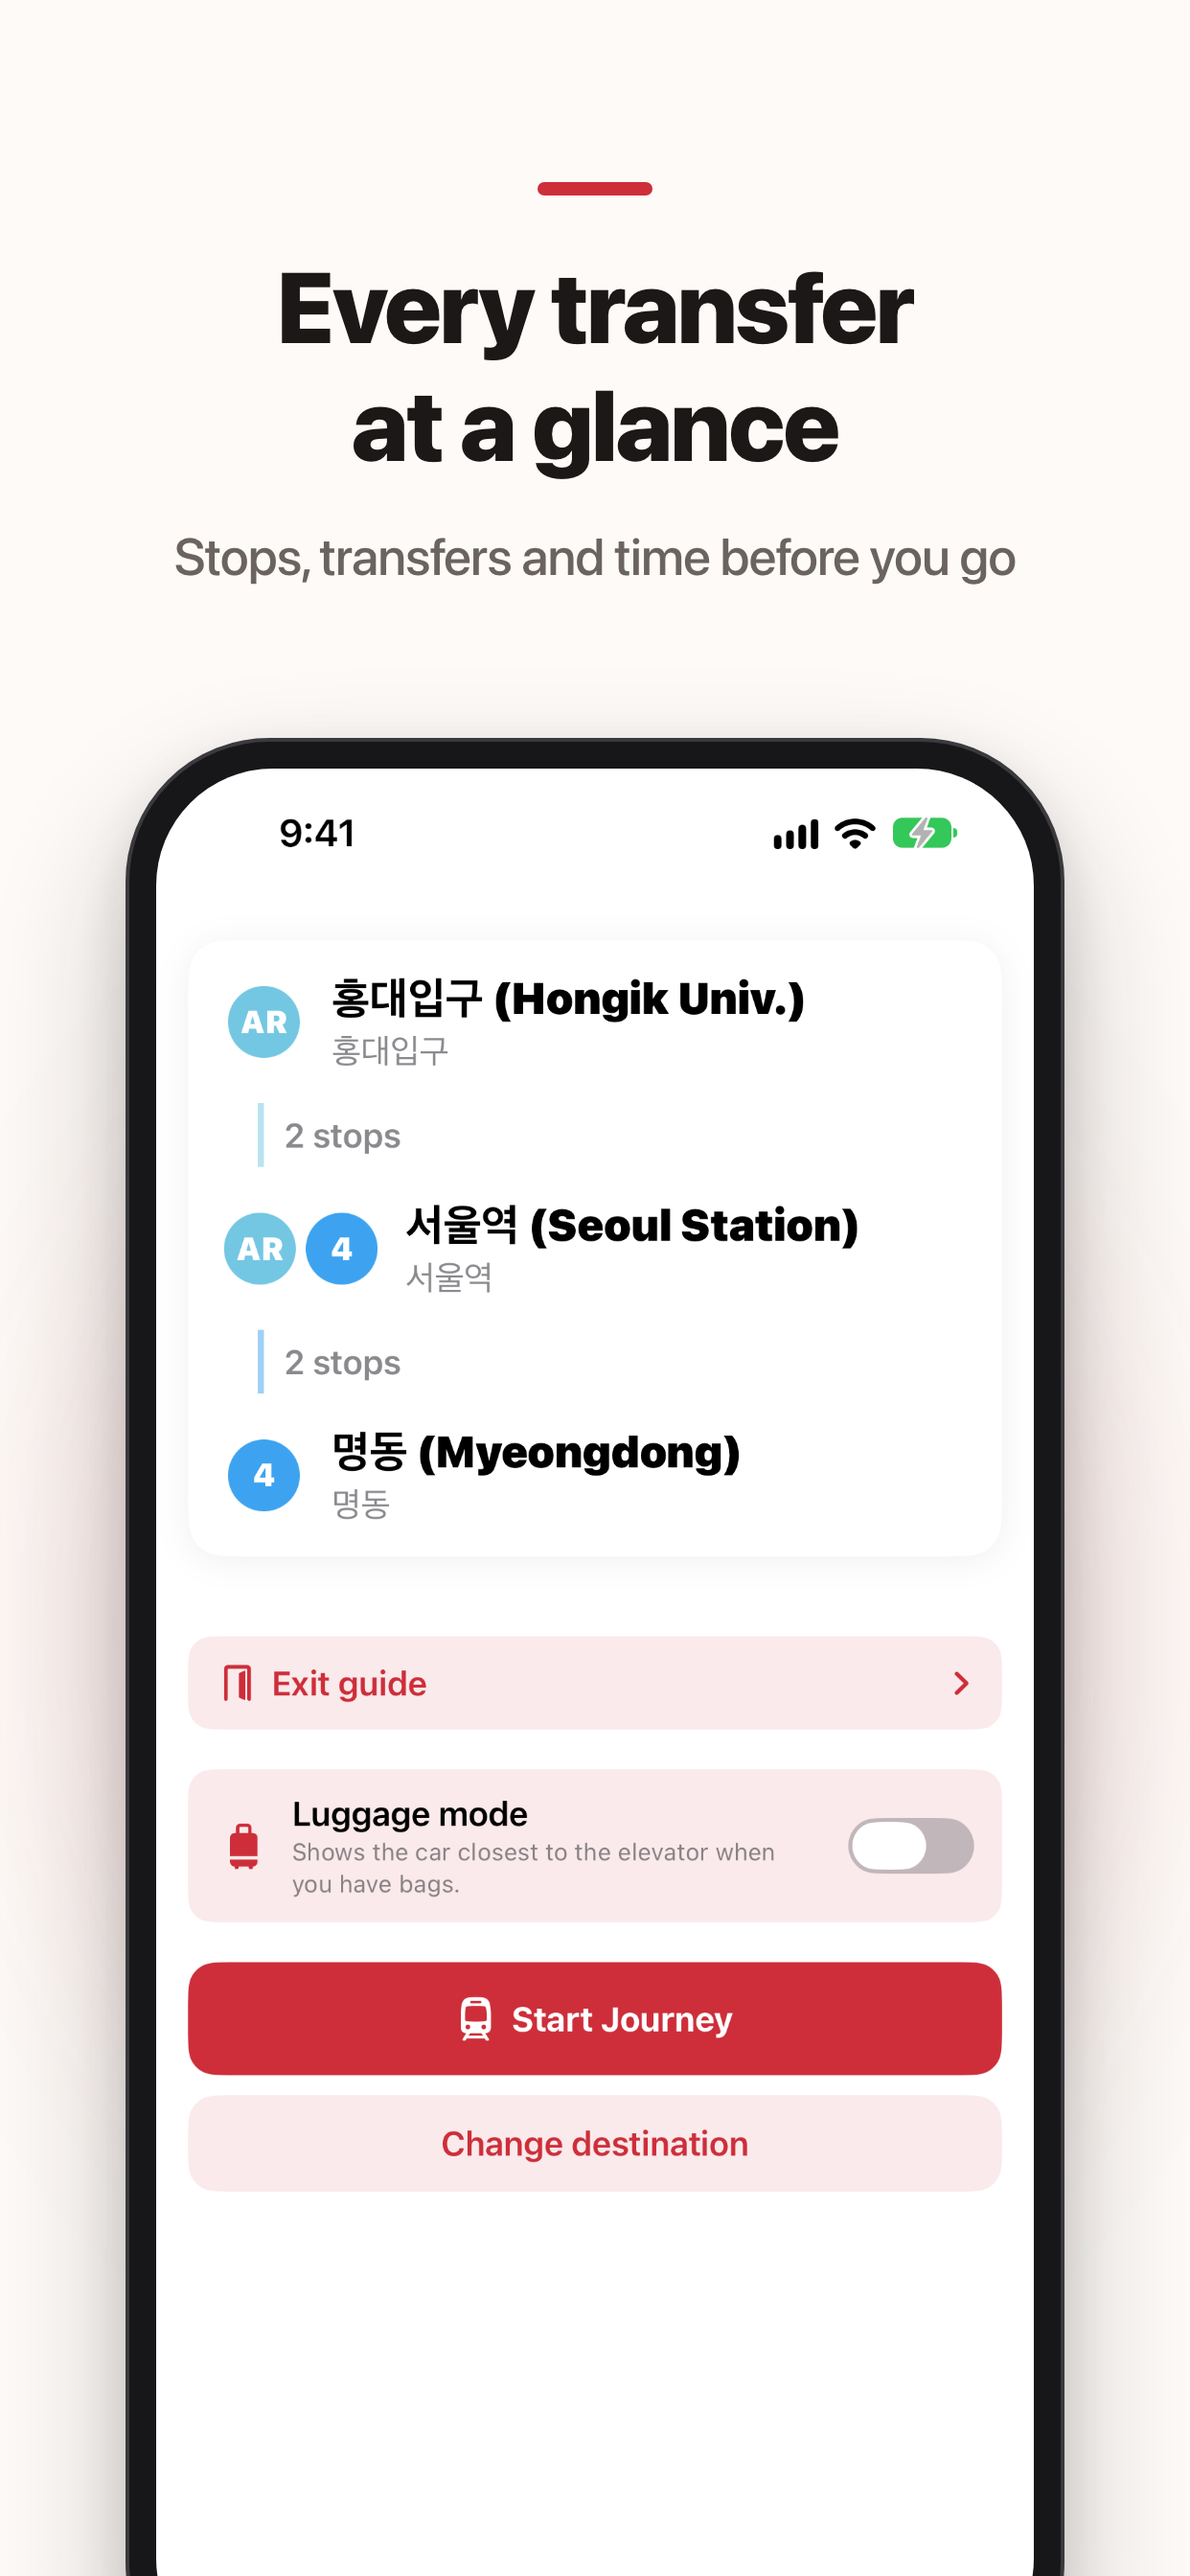
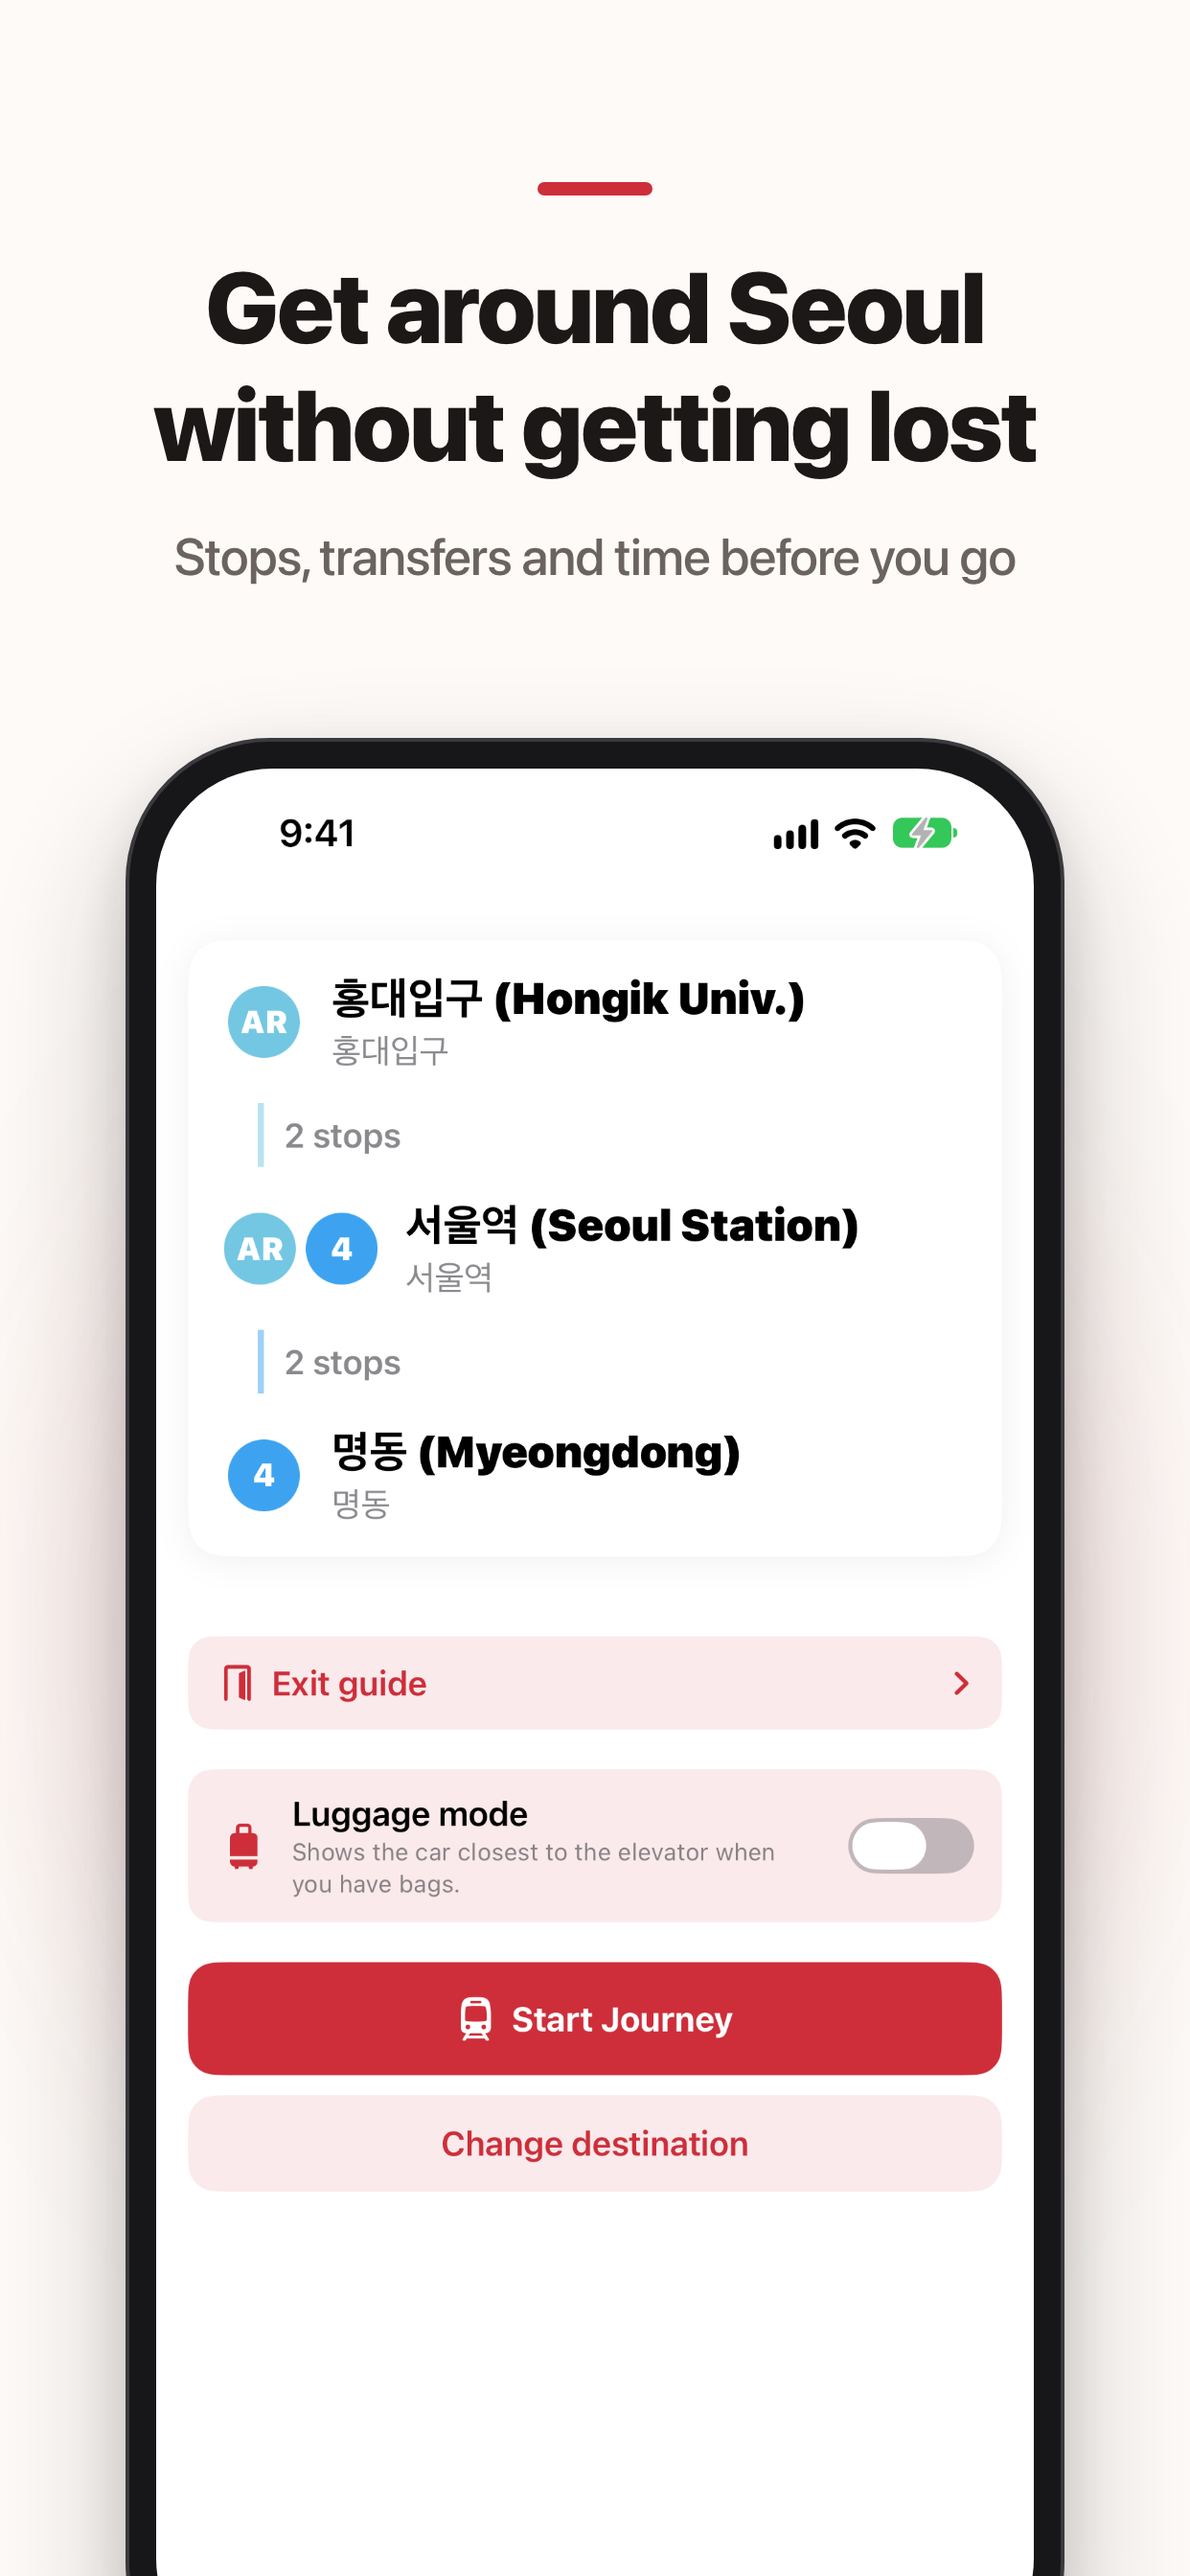
store(첫 화면): 영어 부제 · 프로모션과 스크린샷 1장 캡션을 "서울에서 헤매지 않게" 로
노출 대비 다운로드 0.5% — 검색 목록의 첫 장이 "환승 한눈에" 라 무엇이 다른지 안 보였다.
en 부제 Seoul metro, never miss a stop, 첫 장 Get around Seoul without getting lost,
ko 첫 장 서울 지하철, 헤매지 않게. 진단과 남은 일은 docs/store-first-screen-2026-11-25.md.

Changed region(s): [[0.1224, 0.0938, 0.8873, 0.1875]]

diff --git a/docs/store-first-screen-2026-11-25.md b/docs/store-first-screen-2026-11-25.md
@@ -1,0 +1,16 @@
+## 스토어 첫 화면 — 노출 대비 다운로드 1% 미만 (2026-11-25)
+
+(todo.md 에 다른 세션의 미커밋 변경이 있어 이 파일에 따로 적는다. 정리할 때 todo.md 맨 위로 옮길 것.)
+
+진단: 검색 목록에서 보이는 첫 스크린샷이 "Every transfer at a glance"(어느 지하철 앱이나 하는 말)라서 서울 · 길 잃지 않음이라는 결과가 안 보이고, 영어 부제 "Seoul Metro Guide for Visitors" 도 무엇이 다른지 말하지 않는다. 비교 상대는 평가 수만 개의 Subway Korea · 네이버지도인데 이 앱은 평가가 0~1개다(2026-11-25 iTunes 조회). 한국 스토어 노출은 대부분 한국인 검색일 텐데, 이 앱은 여행자용이라 애초에 받을 이유가 적다(추측, 지역별 노출 숫자는 확인 못 함).
+
+- [x] en-US · en-GB 부제: Seoul Metro Guide for Visitors → Seoul metro, never miss a stop (30자)
+- [x] en-US · en-GB 프로모션 텍스트: 서울 · 부산에서 길 잃지 않는다는 결과를 맨 앞에 (157자)
+- [x] 스크린샷 1장 캡션: en "Every transfer at a glance" → "Get around Seoul without getting lost", ko "환승까지 한눈에" → "서울 지하철, 헤매지 않게" (`scripts/i18n/store/*.json` shots[0], ko · en-US · en-GB 다시 그림)
+- [x] ko 부제 · 프로모션 · 설명 첫 줄은 이미 결과(타는 방향 · 하차 진동)를 말하고 있어 그대로 둠. 키워드는 11월 검색 처방 그대로(부제와 겹치는 말 없음)
+- [x] 길이 검사: 부제 30 · 키워드 100 · 프로모션 170 글자 — 모든 언어 통과
+- [ ] App Store Connect 에 en-US · en-GB 부제 · 프로모션 텍스트 반영(프로모션은 심사 없이 바로 바뀐다), 스크린샷 1장(ko · en-US · en-GB) 바꿔 올리기
+- [ ] 다른 23개 언어의 스크린샷 1장 캡션도 같은 뜻("서울에서 헤매지 않게")으로 바꿀지 검토 — 지금은 "환승 한눈에" 뜻 그대로
+- [ ] 이름 제안 검토: "Korea Navi: Subway Routes" → "Korea Navi: Seoul Subway" (이름은 검색 가중치가 가장 크고, 사람들이 치는 말은 "seoul subway"다 — 추측, 순위 자료로 확인 필요)
+- [ ] 아이콘 제안 검토: 흰 열차 그림은 다른 지하철 앱과 구분이 안 된다. 한국(한글 역 이름 표지 · 서울 노선 색)을 드러내는 요소를 넣을지
+- [ ] 2주 뒤 허브에서 노출 → 페이지 조회 · 조회 → 받기를 다시 보고, 국가별로 어디서 노출이 나오는지 확인

diff --git a/APPSTORE.md b/APPSTORE.md
@@ -10,7 +10,7 @@ Korea Navi: Subway Routes
 
 ### 부제
 
-Seoul Metro Guide for Visitors
+Seoul metro, never miss a stop
 
 ### 키워드
 
@@ -18,7 +18,7 @@ arex,train,gwangju,daejeon,korean,route,busan,daegu,incheon,exit,gtx,tourist,ktx
 
 ### 프로모션 텍스트
 
-Board in the right direction every time. Korea Navi shows it exactly as the train's sign reads and buzzes as your stop approaches, all in your own language.
+Ride the Seoul and Busan subway without getting lost. Board the way the train's sign reads and feel a buzz as your stop approaches, all in your own language.
 
 ### 설명
 
@@ -85,7 +85,7 @@ Korea Navi: Subway Routes
 
 ### 부제
 
-Seoul Metro Guide for Visitors
+Seoul metro, never miss a stop
 
 ### 키워드
 
@@ -93,7 +93,7 @@ busan,incheon,daegu,daejeon,gwangju,gtx,arex,airport,train,transfer,station,tube
 
 ### 프로모션 텍스트
 
-Board in the right direction every time. Korea Navi shows it exactly as the train's sign reads and buzzes as your stop approaches, all in your own language.
+Ride the Seoul and Busan subway without getting lost. Board the way the train's sign reads and feel a buzz as your stop approaches, all in your own language.
 
 ### 설명
 
